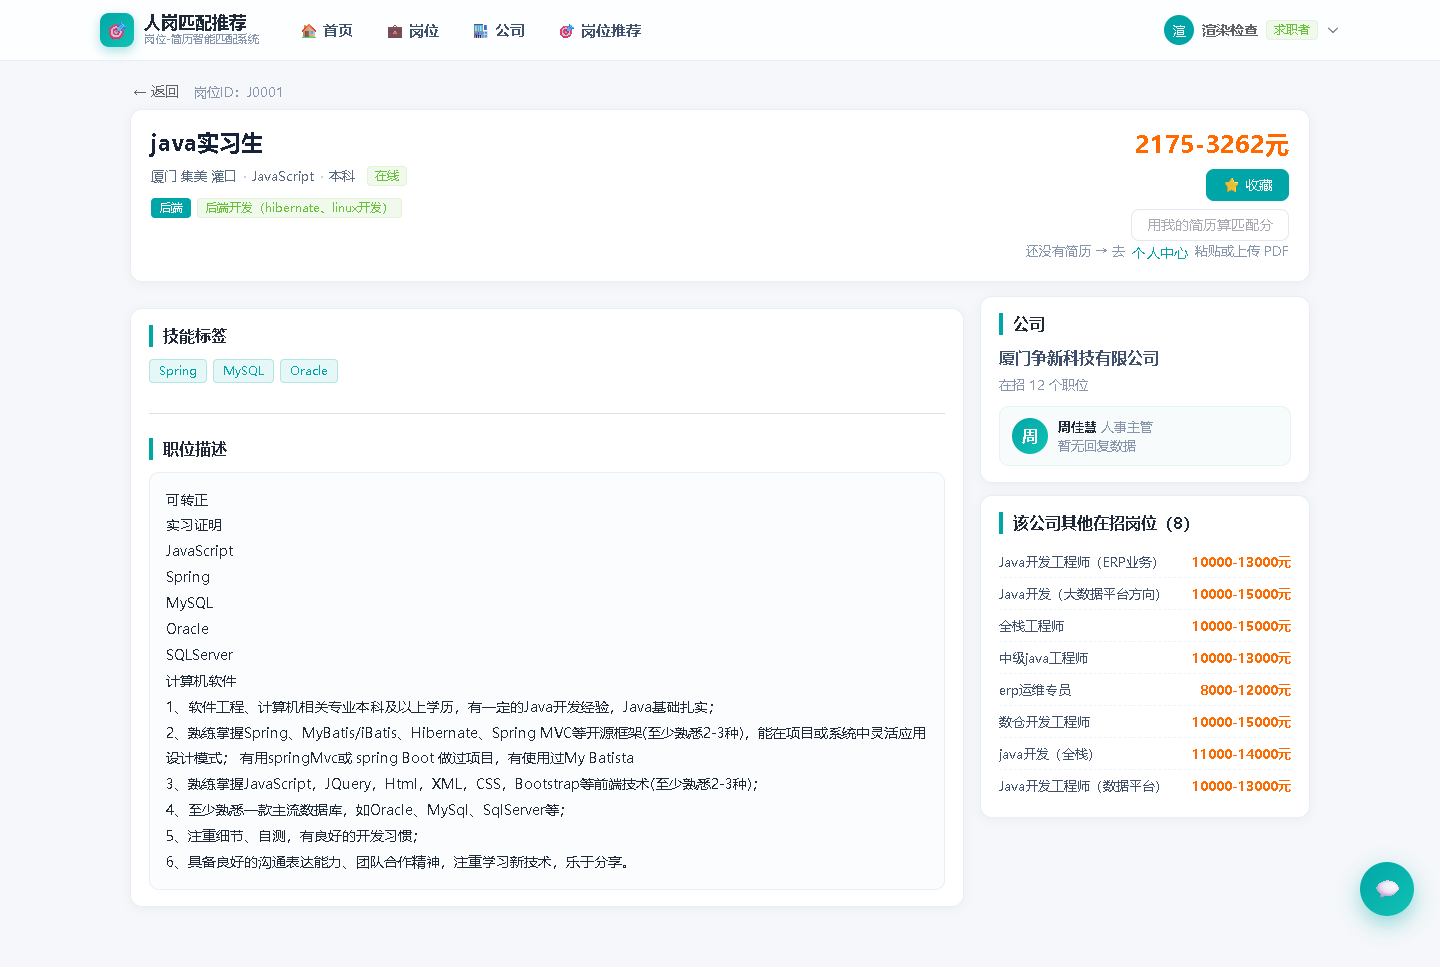
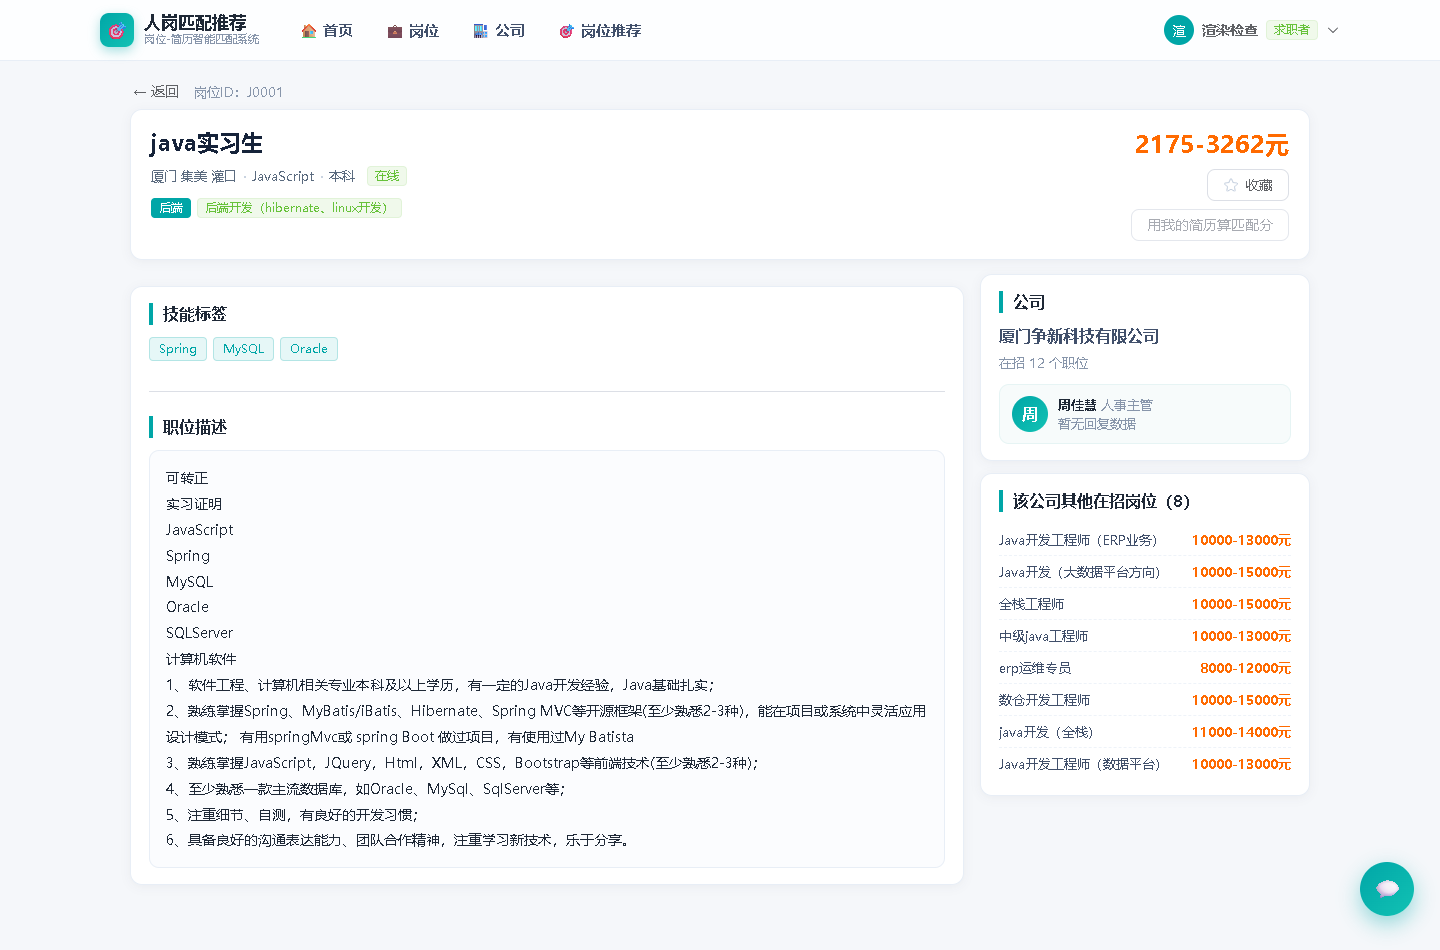
任务11: 删除岗位详情页「还没有简历」提示并把收藏按钮做成星标状态（未收藏空心灰星/已收藏实心黄星，可再次点击取消，刷新保持），渲染断言补充；8路由0error

diff --git a/web/src/views/JobView.vue b/web/src/views/JobView.vue
@@ -28,16 +28,22 @@
           <div class="hright">
             <div class="salary">{{ job.薪资 || '薪资面议' }}</div>
             <div class="acts">
-              <el-button type="primary" :disabled="!auth.isLogged()" @click="fav">⭐ 收藏</el-button>
+              <!-- 收藏：未收藏是空心灰星，收藏后变黄星（再点一次取消）
+                   星标颜色用行内样式绑定：Element Plus 的按钮 color / hover 会盖掉 scoped 类选择器 -->
+              <el-button class="favbtn" :class="{ faved }" :disabled="!auth.isLogged()"
+                         :loading="faving"
+                         :style="faved ? { borderColor: '#f7ba2a', color: '#b8860b', background: '#fffbf0' } : {}"
+                         @click="toggleFav">
+                <el-icon :style="{ color: faved ? '#f7ba2a' : '#c8d2e0', fontSize: '16px' }">
+                  <StarFilled v-if="faved" />
+                  <Star v-else />
+                </el-icon>
+                <span>{{ faved ? '已收藏' : '收藏' }}</span>
+              </el-button>
               <el-button :disabled="!resume.canMatch()" :loading="scoring" @click="doScore">
                 用我的简历算匹配分</el-button>
             </div>
             <div v-if="!auth.isLogged()" class="muted">登录后可收藏</div>
-            <div v-else-if="!resume.canMatch()" class="muted">
-              还没有简历 → 去
-              <el-button link type="primary" @click="router.push('/profile')">个人中心</el-button>
-              粘贴或上传 PDF
-            </div>
           </div>
         </div>
       </div>
@@ -132,6 +138,7 @@
 import { computed, onMounted, ref, watch } from 'vue'
 import { useRoute, useRouter } from 'vue-router'
 import { ElMessage } from 'element-plus'
+import { Star, StarFilled } from '@element-plus/icons-vue'
 import * as api from '../api'
 import type { JobItem } from '../api/jobs'
 import type { JobRec, ScoreResp } from '../api/types'
@@ -150,6 +157,9 @@ const loading = ref(false)
 const job = ref<JobItem | null>(null)
 const score = ref<ScoreResp | null>(null)
 const scoring = ref(false)
+const faving = ref(false)
+/** 当前岗位是否已被我收藏（决定星星是空心灰还是实心黄） */
+const faved = ref(false)
 const siblings = ref<{ 岗位ID: string; 岗位名称: string; 薪资: string }[]>([])
 
 /** 本次会话的匹配结果里如果有这个岗位，就把匹配详情带出来 */
@@ -196,8 +206,16 @@ async function load() {
   score.value = null
   siblings.value = []
   job.value = null
+  faved.value = false
   try {
     job.value = (await api.jobDetail(id)) as JobItem
+    // 是否已收藏（登录时查一次我的收藏列表，决定星星颜色）
+    if (auth.isLogged()) {
+      try {
+        const f = await api.listFavorites()
+        faved.value = (f.收藏 || []).some((x) => x.job_id === job.value?.岗位ID)
+      } catch { /* 拿不到收藏态就按未收藏显示 */ }
+    }
     // 同公司其他在招岗位（有公司ID时才能取）
     if (job.value.公司ID) {
       try {
@@ -221,12 +239,22 @@ async function doScore() {
   finally { scoring.value = false }
 }
 
-async function fav() {
-  if (!job.value) return
+/** 收藏 / 取消收藏：收藏后星星变黄，再点一次取消 */
+async function toggleFav() {
+  if (!job.value || faving.value) return
+  faving.value = true
   try {
-    const r = await api.addFavorite(job.value.岗位ID)
-    ElMessage.success(r.message || '已收藏')
+    if (faved.value) {
+      const r = await api.removeFavorite(job.value.岗位ID)
+      faved.value = false
+      ElMessage.success(r.message || '已取消收藏')
+    } else {
+      const r = await api.addFavorite(job.value.岗位ID)
+      faved.value = true
+      ElMessage.success(r.message || '已收藏')
+    }
   } catch { /* 拦截器已提示 */ }
+  finally { faving.value = false }
 }
 
 watch(() => route.params.id, load)
@@ -252,6 +280,9 @@ onMounted(load)
 .salary { font-size: 24px; font-weight: 800; color: #ff6a00; white-space: nowrap; }
 .acts { margin-top: 10px; display: flex; flex-direction: column; gap: 8px; align-items: flex-end; }
 .acts :deep(.el-button) { margin-left: 0; }
+
+/* 收藏按钮：类名保留（便于测试选择与主题覆盖），颜色由模板里的行内样式控制 */
+.favbtn .star { font-size: 16px; }
 
 .layout { display: flex; gap: 16px; align-items: flex-start; margin-top: 14px; }
 .main { flex: 1; min-width: 0; }

diff --git a/web/src/views/ProfileView.vue b/web/src/views/ProfileView.vue
@@ -50,7 +50,7 @@
                   <el-button @click="goMatch">去岗位推荐 →</el-button>
                 </div>
               </template>
-              <el-empty v-else description="还没有简历：在左边粘贴正文或在这里上传 PDF，然后点保存" />
+              <el-empty v-else description="在左边粘贴正文或在这里上传 PDF，然后点保存" />
             </div>
 
             <div v-if="resume.parsed" class="zq-card pad" style="margin-top:12px">

diff --git a/docs/测试报告.md b/docs/测试报告.md
@@ -303,6 +303,7 @@ python src/api/score_features.py --validate 10  # 特征口径一致性自检
 ---
 
 > 文档版本：v2.6（2026-09-18，**岗位列表默认排序改为随机后的复核**：`/api/jobs` 新增 `seed` 参数，`sort=default` 用**种子随机**打乱（同 seed 翻页稳定、换 seed 换一批，避免"每页各自随机"导致重复/漏岗位）；`tests/test_jobs.py` 37 → **41 项**（新增 4 项：换 seed 顺序不同且同 seed 一致、三页不重不漏且与一次取 60 条一致、显式排序忽略 seed、无 seed 保持稳定），用例总数 185 → **189 项全绿**；渲染检查新增"两次进入岗位页顺序不同"与"翻页无交集"两项断言（8 路由 0 error）；另用一次性浏览器脚本实测：两次进页面首条不同（品管主管 / Java工程师）、第 1 页与第 2 页 0 重叠、点「默认排序」换一批、薪资从高到低仍严格降序、控制台 0 error；
+> v2.9（2026-09-18，**岗位详情页收藏星标状态后的复核**：删除岗位详情页「还没有简历」提示（个人中心空态同字眼改述），`还没有简历` 纳入全站反向断言；收藏按钮改为**未收藏=空心灰星「收藏」／已收藏=实心黄星「已收藏」**（进页面查 `GET /api/user/favorites`，可再点取消）；渲染检查岗位详情页断言补 `收藏`（8 路由 0 error）；另用一次性浏览器脚本实测 6 项：未收藏星标 `rgb(200,210,224)`、点击后文字变「已收藏」且星标 `rgb(247,186,42)`、**刷新后仍为黄星**（状态来自后端）、后端收藏列表确有该岗位、再点一次取消后星标回到灰色、岗位详情页无「还没有简历」，控制台 0 error；**后端用例数不变，仍 189 项全绿**（47.93 s）；
 > v2.8（2026-09-18，**继续清理两处界面文字后的复核**：岗位推荐页删除「返回条数」控件与无简历提示语（条数固定 Top-50）、个人中心删除顶部 4 个统计卡（我的简历/收藏/匹配/提问）；渲染检查反向断言新增 `返回条数`（岗位推荐页）与 `收藏岗位`/`匹配次数`/`提问次数`（全站），8 路由 0 error；另用一次性浏览器脚本实测 16 项：岗位推荐仍出 **50 条**、`返回条数` 与 `还没有简历` 均已消失、`.ctrl` 内滑块 **0** 个、四个优先维度仍在、个人中心 `.kpi` 元素 **0** 个且 `已保存`/`收藏岗位`/`匹配次数`/`提问次数` 全部消失、三个页签仍在、控制台 0 error；**后端用例数不变，仍 189 项全绿**（46.59 s）；
 > v2.7（2026-09-18，**「岗位推荐」页改版后的复核**：删除顶部 5 个指标卡与左侧筛选栏，进入页面**自动拉满评分最高 50 条**，筛选与"优先维度"（综合评分 / 技能匹配 / 地理位置 / 工作经验）全部置于顶部；顺带修掉"选中已保存简历但未同步 store，导致自动匹配静默不执行"的连带缺陷；渲染检查更新本页断言并把 5 个指标卡字样加入**反向断言**（8 路由 0 error）；另用一次性浏览器脚本实测 16 项：自动匹配 **50 条**、`.kpi` 元素 **0** 个、5 个指标卡字样全部消失、无侧边栏、四个优先维度齐备、切各维度后对应分数**单调不增**（地域 85 ≥ 85…、技能 77.7 ≥ 72.1…、经验 100 ≥ 100…、总分 81.2 ≥ 80…）且四种顺序互不相同、点岗位跳 `/#/job/J1240`、控制台 0 error；**后端用例数不变，仍 189 项全绿**；
 > v2.5（2026-09-18，**岗位详情独立成页 + 问答直达链接后的复核**：新增 `/job/:id` 路由（每岗位独立 URL），所有"点岗位"入口由右侧抽屉改为跳页、`JobDetailDrawer.vue` 删除；Prompt v7 要求回答里给岗位页链接，前端渲染成可点链接；渲染检查路径 7 → **8 个**，新增"`/job/J0001` 页面含职位描述"与"点岗位卡跳到 `/#/job/J0001` 且无抽屉"两项断言；`npm run check:chat` 增加"回答带岗位链接"断言（本轮 1/5 条回答含链接，符合预期：只有列具体岗位的那条才该有）；浏览器实测：问答回答里渲染出 3 个岗位链接 → 点击直达岗位详情页、对话框自动收起、控制台 0 error；**后端用例数不变，仍 185 项全绿**（53.12 s）；

diff --git a/web/README.md b/web/README.md
@@ -69,6 +69,7 @@ web/
 >
 > **岗位详情是独立页面**：每个岗位一个 URL（`#/job/J0020`），从首页/岗位列表/公司页/匹配结果的任意一处点岗位都跳过去，**不再弹右侧抽屉**。
 > 页面里会展示"与我简历的匹配"（本次会话做过匹配时）与该公司的其他在招岗位。
+> **收藏按钮是星标状态**：未收藏 = 空心灰星「收藏」，已收藏 = 实心黄星「已收藏」（进页面查一次 `/api/user/favorites`，再点一次取消）。
 >
 > **问答里的岗位链接可点**：回答中提到具体岗位时会给出 `[岗位名](/#/job/J0020)` 形式的链接（Prompt v7 要求），
 > 悬浮球把它渲染成可点链接（先转义 HTML 再替换白名单链接），点击直达岗位页并自动收起对话框。
